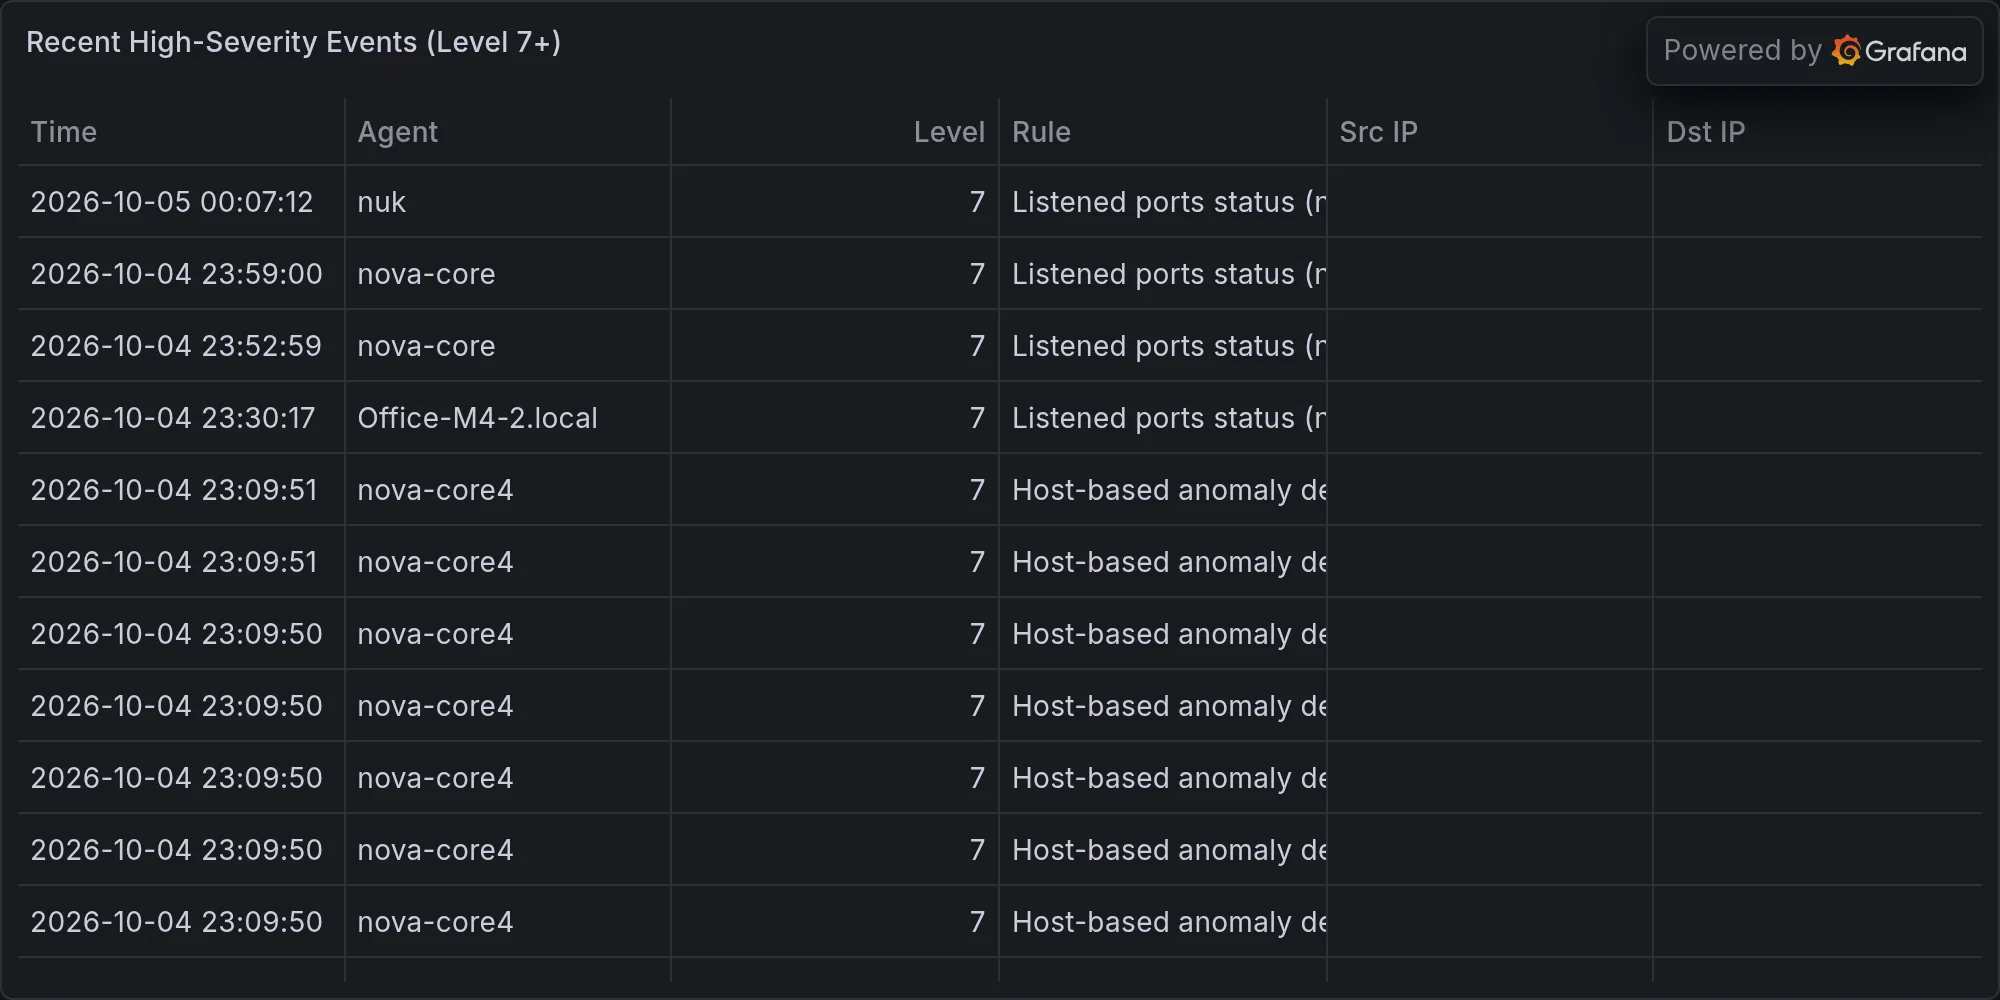
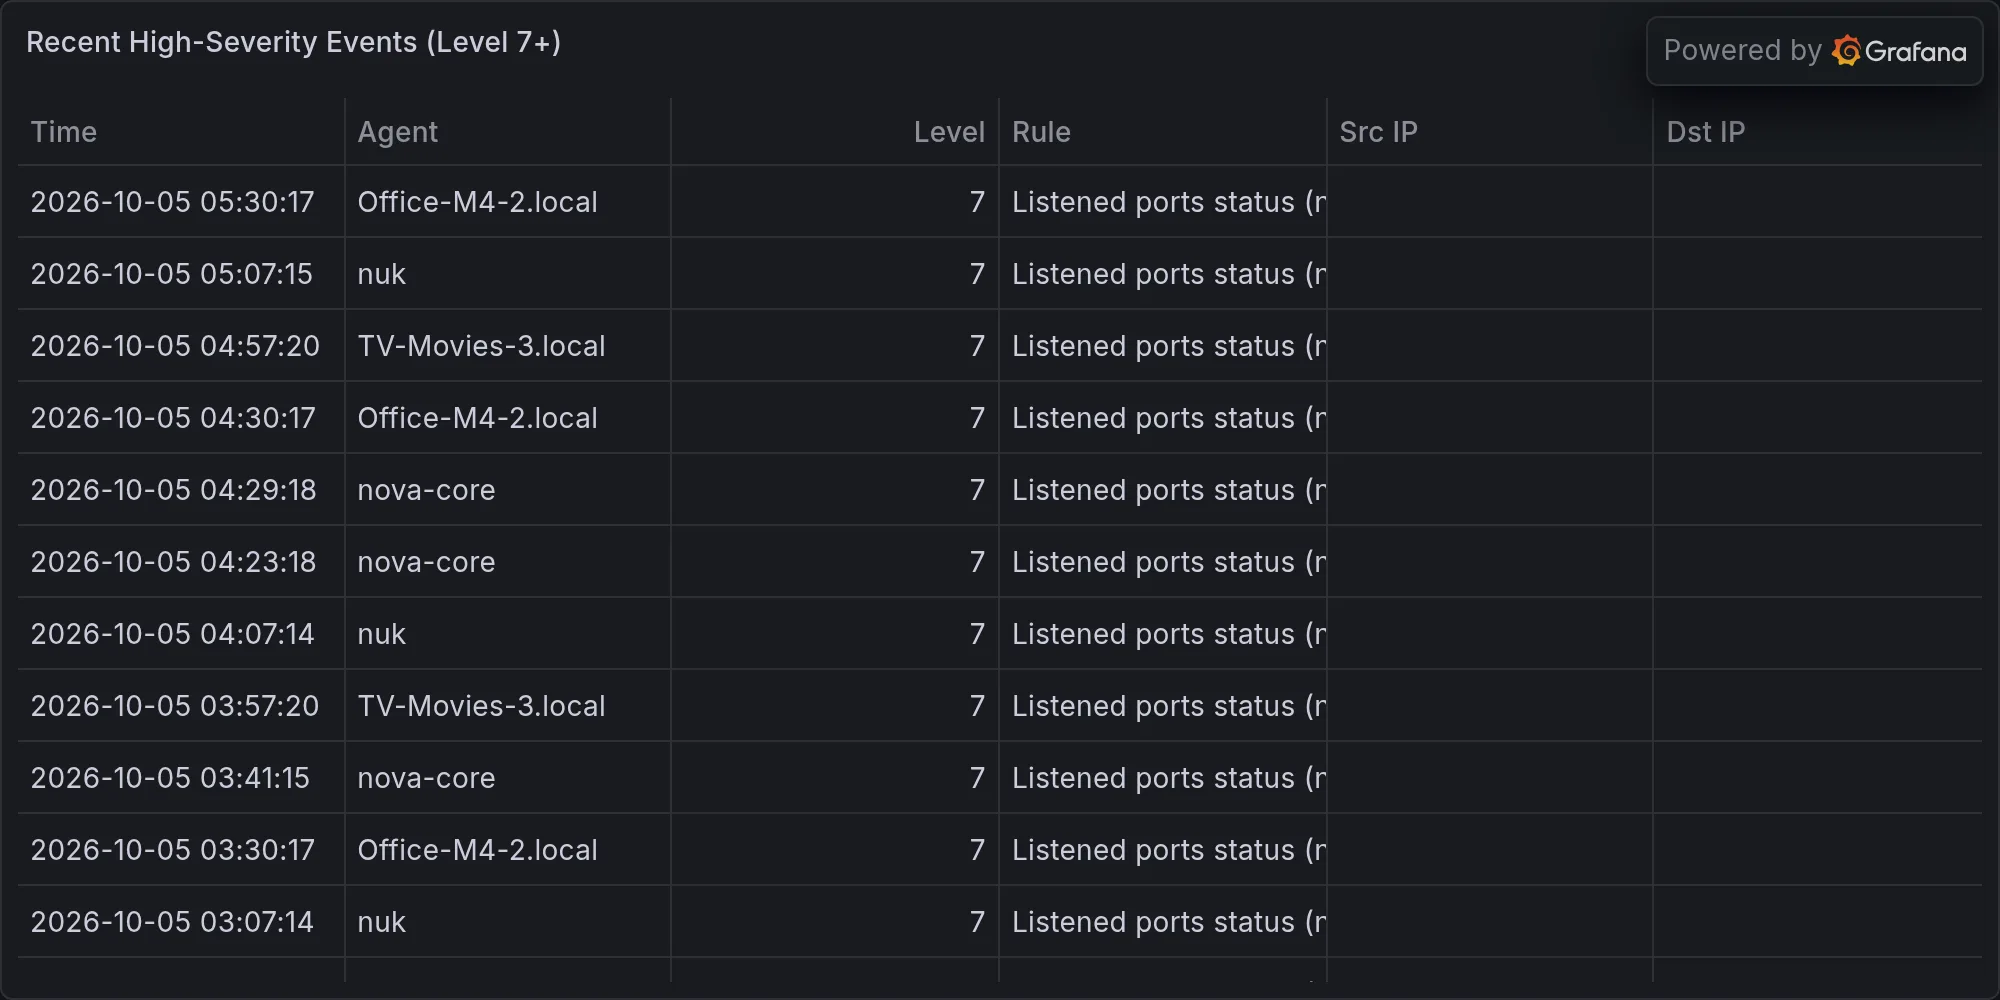
security: 2026-10-05 — **INBOUND THREAT BLOCKED ON GATEWAY — Oct 05 05:47

diff --git a/content/operations/2026-10-05-inbound-threat-blocked-on-gateway-oct-05-05-47-45-source-unk.md b/content/operations/2026-10-05-inbound-threat-blocked-on-gateway-oct-05-05-47-45-source-unk.md
@@ -1,0 +1,48 @@
+---
+title: "🛡 **INBOUND THREAT BLOCKED ON GATEWAY — Oct 05 05:47:45 — Source Unknown**"
+date: 2026-10-05T05:49:48-07:00
+draft: false
+categories: ["operations"]
+tags: ["breaking-alert", "ips-attack-response-oct-05-05-47-45-rack", "security"]
+description: "BREAKING: IPS: attack_response: Oct 05 05:47:45 Rack14-UDMPro CEF:0|Ubiquiti|UniFi Network|10.6"
+cover:
+  image: "/images/operations/2026-10-05-inbound-threat-blocked-on-gateway-oct-05-05-47-45-source-unk.webp"
+  alt: "**INBOUND THREAT BLOCKED ON GATEWAY — Oct 05 05:47:45 — Source Unknown**"
+  relative: false
+---
+
+*Published Monday, October 05, 2026 at 05:49 AM PT*
+
+![**INBOUND THREAT BLOCKED ON GATEWAY — Oct 05 05:47:45 — Source Unknown**](/images/operations/2026-10-05-inbound-threat-blocked-on-gateway-oct-05-05-47-45-source-unk.webp)
+
+Ubiquiti UniFi Network device (Rack14-UDMPro, 192.168.1.1) blocked an inbound attack at 05:47:45 UTC. Threat payload type unknown. Source IP unidentified. No systems compromised — IPS rule triggered and dropped the traffic. Immediate action: review UniFi logs and IDS signature matches to identify attack vector.
+
+**DETAILS**
+- Threat detected inbound on 192.168.1.1 (gateway appliance) at Oct 05 05:47:45 UTC
+- IPS action: **blocked** (traffic dropped, not forwarded)
+- Source IP/ASN: unknown; geolocation unavailable
+- Payload classification: not provided in alert
+- UniFi firmware version: 10.6 (Ubiquiti Network|UniFi Network)
+
+**IMPACT**
+- **Scope:** gateway-level inbound attack attempt; no internal systems touched (blocked at perimeter)
+- **Affected systems:** none compromised; network monitoring infrastructure intact
+- **Threat landscape context:** Active exploitation confirmed for F5 BIG-IP APM zero-day (CVE-2026-94127) and multiple Ubiquiti critical vulnerabilities in October 2026 threat reports
+
+**RECOMMENDED ACTIONS**
+- Pull full IDS/IPS logs from UDMPro (Rack14-UDMPro 192.168.1.1) for Oct 05 05:47:45 ±60s to extract signature ID and payload fingerprint
+- Cross-reference triggered rule against known F5/Ubiquiti exploit signatures
+- Verify UniFi firmware is up-to-date (critical Ubiquiti patches documented for October 2026)
+- If payload type becomes identifiable, escalate for deeper forensics
+
+**SOURCES**
+- Ubiquiti UniFi Network CEF log: Oct 05 05:47:45 Rack14-UDMPro
+- Nova memory: active F5 BIG-IP APM zero-day exploitation (CVE-2026-94127), Ubiquiti critical fixes (October 2026)
+
+**STATUS: Contained. Awaiting payload classification from IPS rule match.**
+
+---
+
+**Recent high-severity events at publish time:**
+
+![Recent high-severity events](/images/operations/2026-10-05-breaking-alert-posture.webp)
